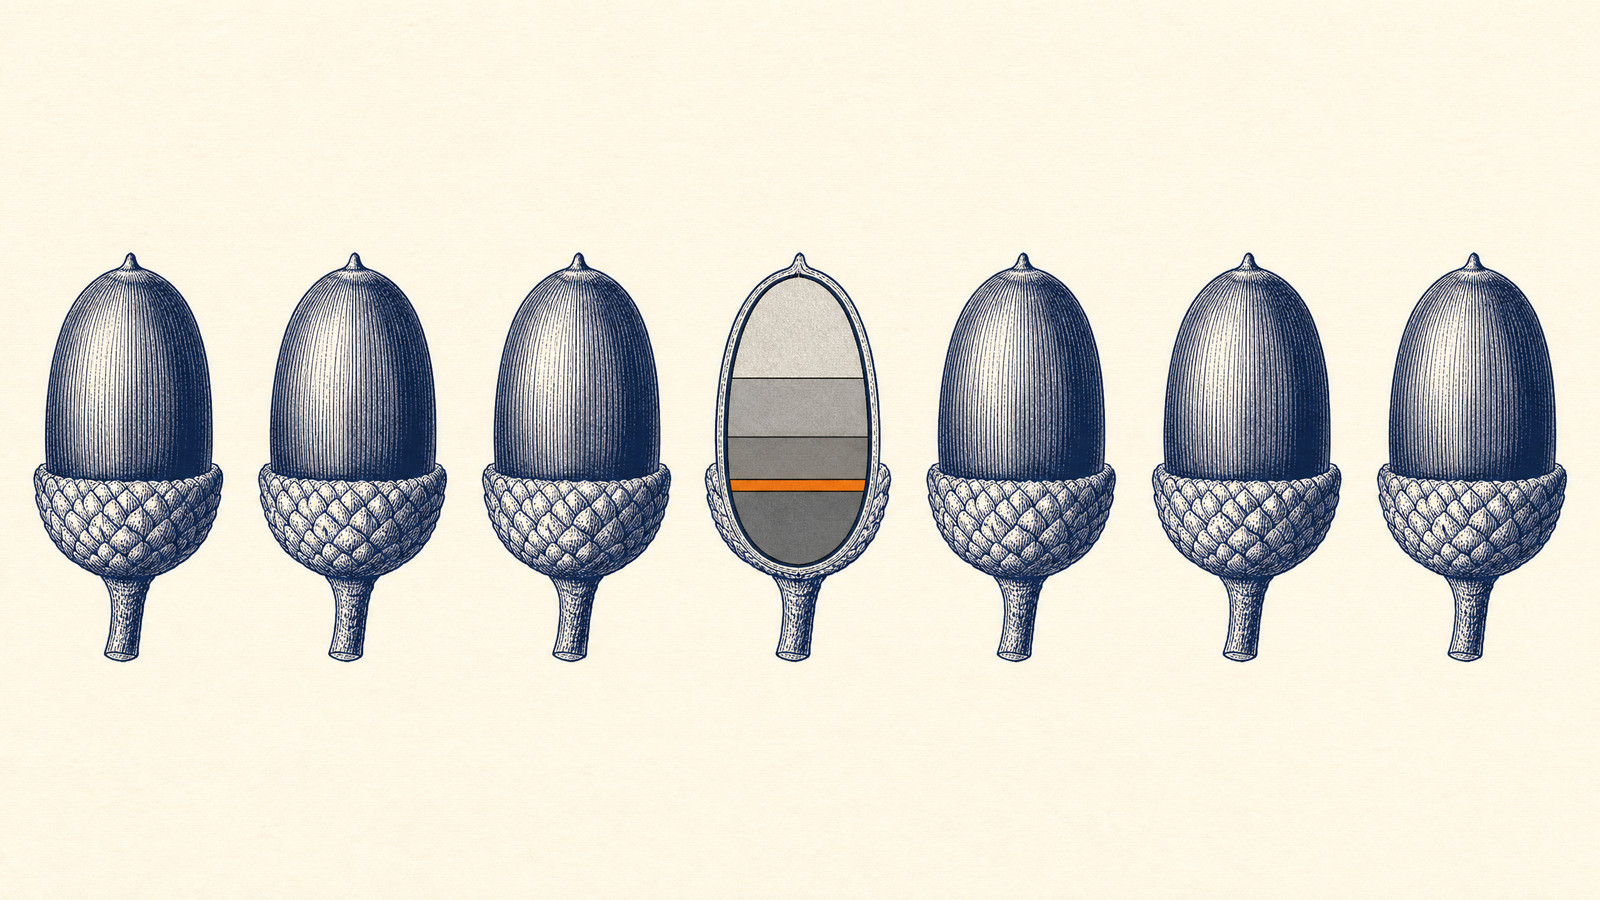
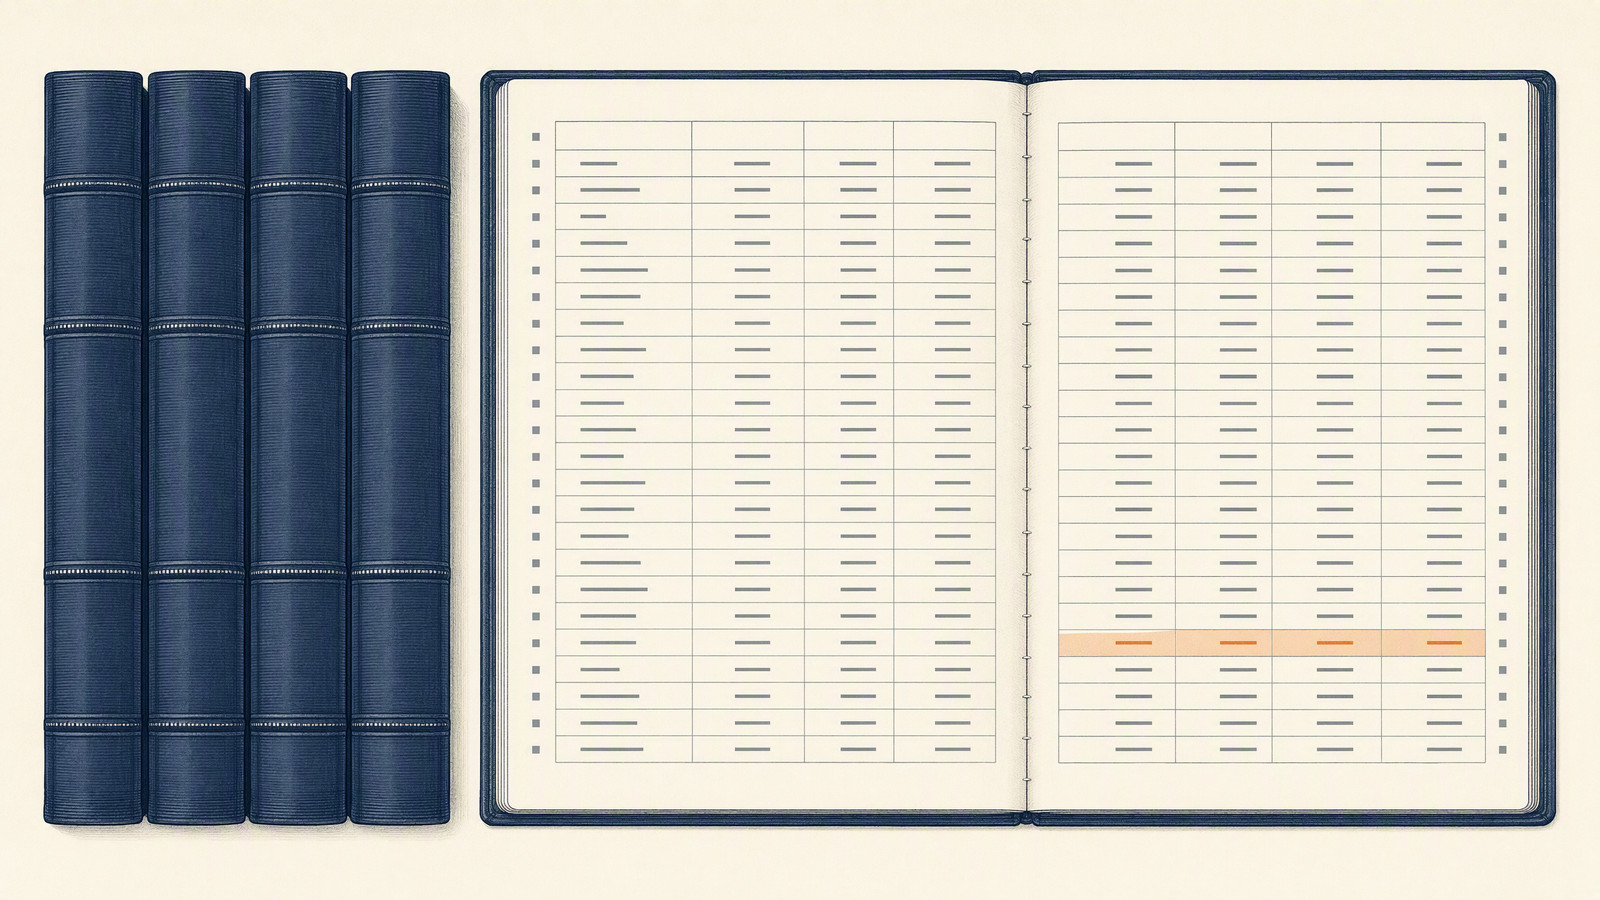
자체 광고 배너를 공시 보고서 그림으로 바꿨다 — 직관이 먼저다
두 번 반려된 끝에 세 번째가 맞았다.
① 철제 캐비닛 → 「도토리 컨셉에 안 맞음」
② 도토리 해부도 → 「직관적으로 하자, 공시 보고서 분석하는 거니까」

둘째 지적이 더 깊다. 도토리 해부도는 예쁘고 브랜드에도 맞지만 은유가 한 겹 더 있다.
「도토리 = 회사」를 먼저 풀어야 뜻에 닿는데, 처음 온 사람은 그 한 겹을 풀지 않는다.
자체 광고에서는 예쁨보다 한눈에 읽히는 것이 먼저다.

지금 그림은 닫힌 제본 보고서 넷 옆에 한 권이 펼쳐져 있고, 펼친 면에는 재무제표의
괘선과 숫자 자리가 줄줄이 있으며 그중 한 줄만 액센트로 짚여 있다. 글자는 넣지 않고
숫자 자리를 짧은 선분으로 그려 표라는 것이 읽히게 했다. 은유가 없어 설명이 필요 없다.

바탕색을 그림의 종이색(#F9F2E2)에 맞춰 contain 여백의 이음매를 없앴다.
착지의 대체 텍스트와 캡션도 그림에 맞춰 고쳤다.

검증: --html 통과, check-images 29종×2폭, 1280px·390px 넘침 0px, 안 뜬 그림 0건.

Claude-Session: https://claude.ai/code/session_01YNaxAq7nPG4ZcB6PNaxNJQ

diff --git a/CLAUDE.md b/CLAUDE.md
@@ -117,10 +117,13 @@
   **푸터 「콘텐츠」 맨 위**. 자체 광고는 `components/CorpPromo.astro` 한 곳이고
   **회사 목록을 `corps` 컬렉션에서 직접 읽는다**(손으로 적으면 낱장이 늘 때 여기만 낡는다).
   **강조는 이 항목 하나에만 건다** — 전부 강조하면 강조가 아니다.
-  배너 그림은 **도토리 해부도**다(철제 캐비닛 안은 소유주 반려 — 「도토리 컨셉에 안 맞음」).
-  겉은 같은 도토리 일곱인데 하나를 갈라 보면 속이 고르지 않다 — 브랜드와 방의 언어(단면)가
-  한 그림에서 만난다. **`object-fit` 은 cover 가 아니라 contain 이다**(cover 로 두었더니
-  바깥 도토리가 잘려 뜻이 무너졌다). 여백은 그림의 종이색(#FCF6E4)으로 칠해 이음매를 없앴다.
+  배너 그림은 **공시 보고서를 펼친 그림**이다 — 닫힌 제본 보고서 넷 옆에 한 권을 펼쳐
+  재무제표 괘선을 드러내고 **한 줄만 액센트로 짚었다**. 여기까지 두 번 반려됐다:
+  ① 철제 캐비닛 → 「도토리 컨셉에 안 맞음」 ② 도토리 해부도 → 「**직관적으로 하자,
+  공시 보고서 분석하는 거니까**」. **은유가 한 겹만 더 있어도 처음 온 사람은 무슨 방인지 못 읽는다** —
+  자체 광고에서는 예쁨보다 **한눈에 읽히는 것**이 먼저다.
+  **`object-fit` 은 cover 가 아니라 contain 이다**(cover 로 두었더니 바깥이 잘려 뜻이 무너졌다).
+  여백은 그림의 종이색(#F9F2E2)으로 칠해 이음매를 없앴다.
 - 세계관: `docs/worldview.md` · 운영 절차: `docs/operations.md` · 특집 기준: `docs/topics-standard.md` · 품질 체계: `docs/quality.md` · **기사 양식: `docs/article-forms.md`** · **유입: `docs/traffic.md`** · **대표 이미지: `docs/hero-images.md`**
 
 ## 시크릿 (값을 절대 출력·커밋하지 말 것)
